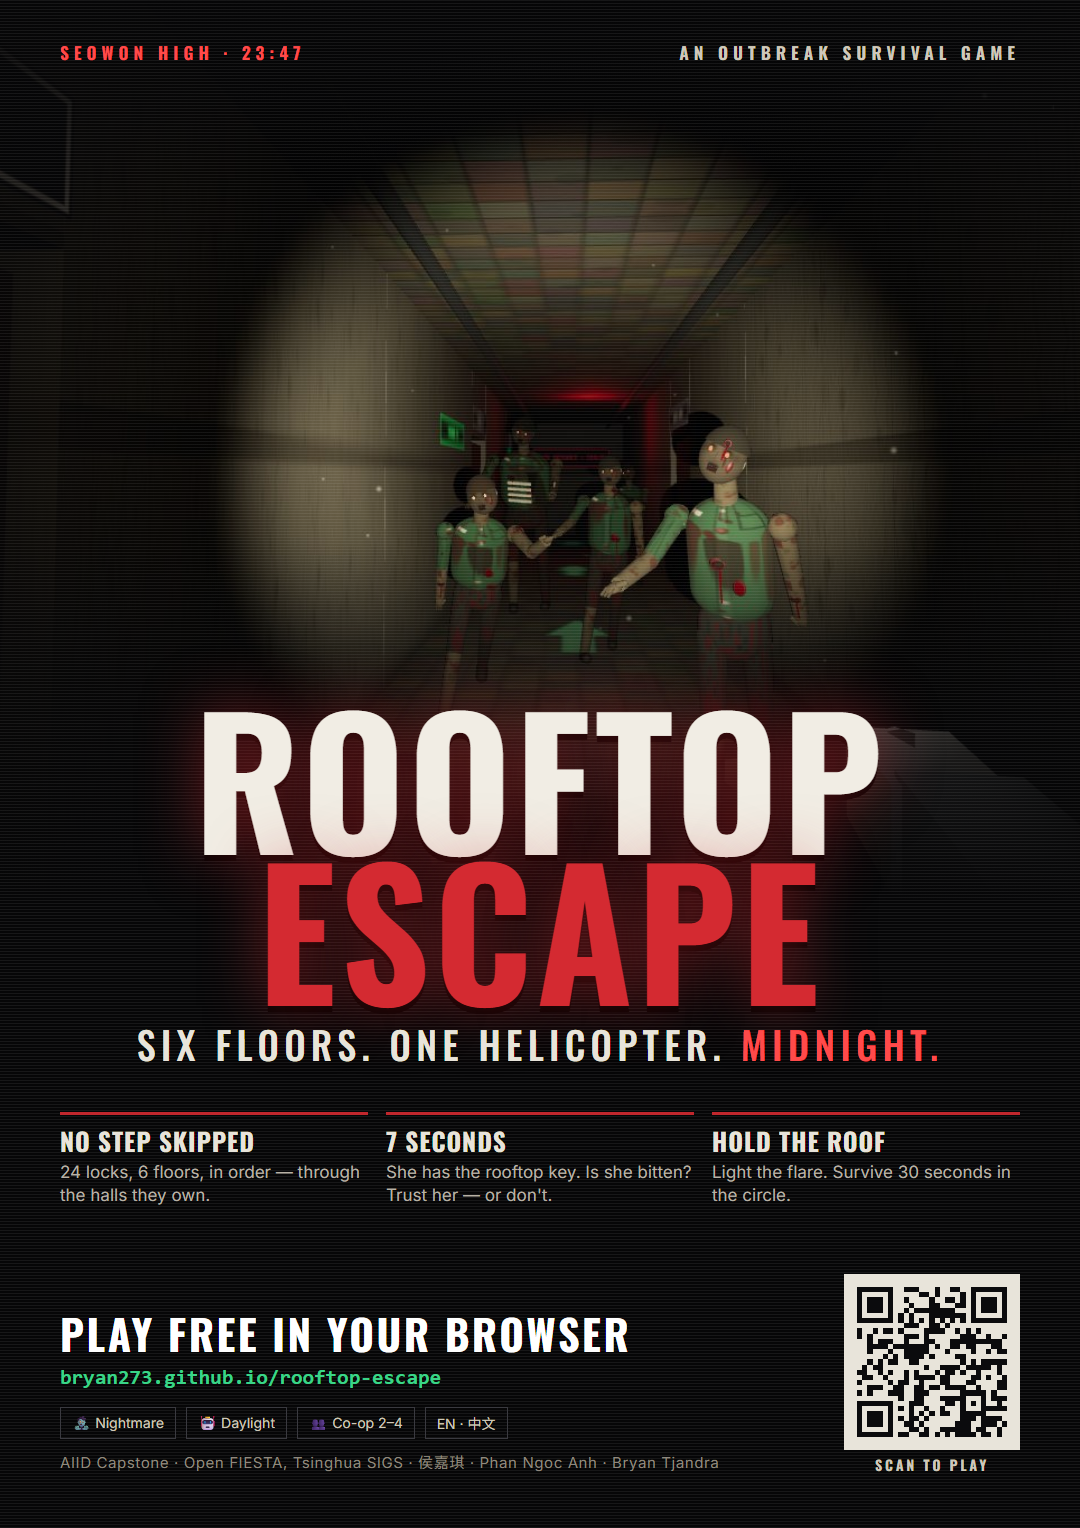
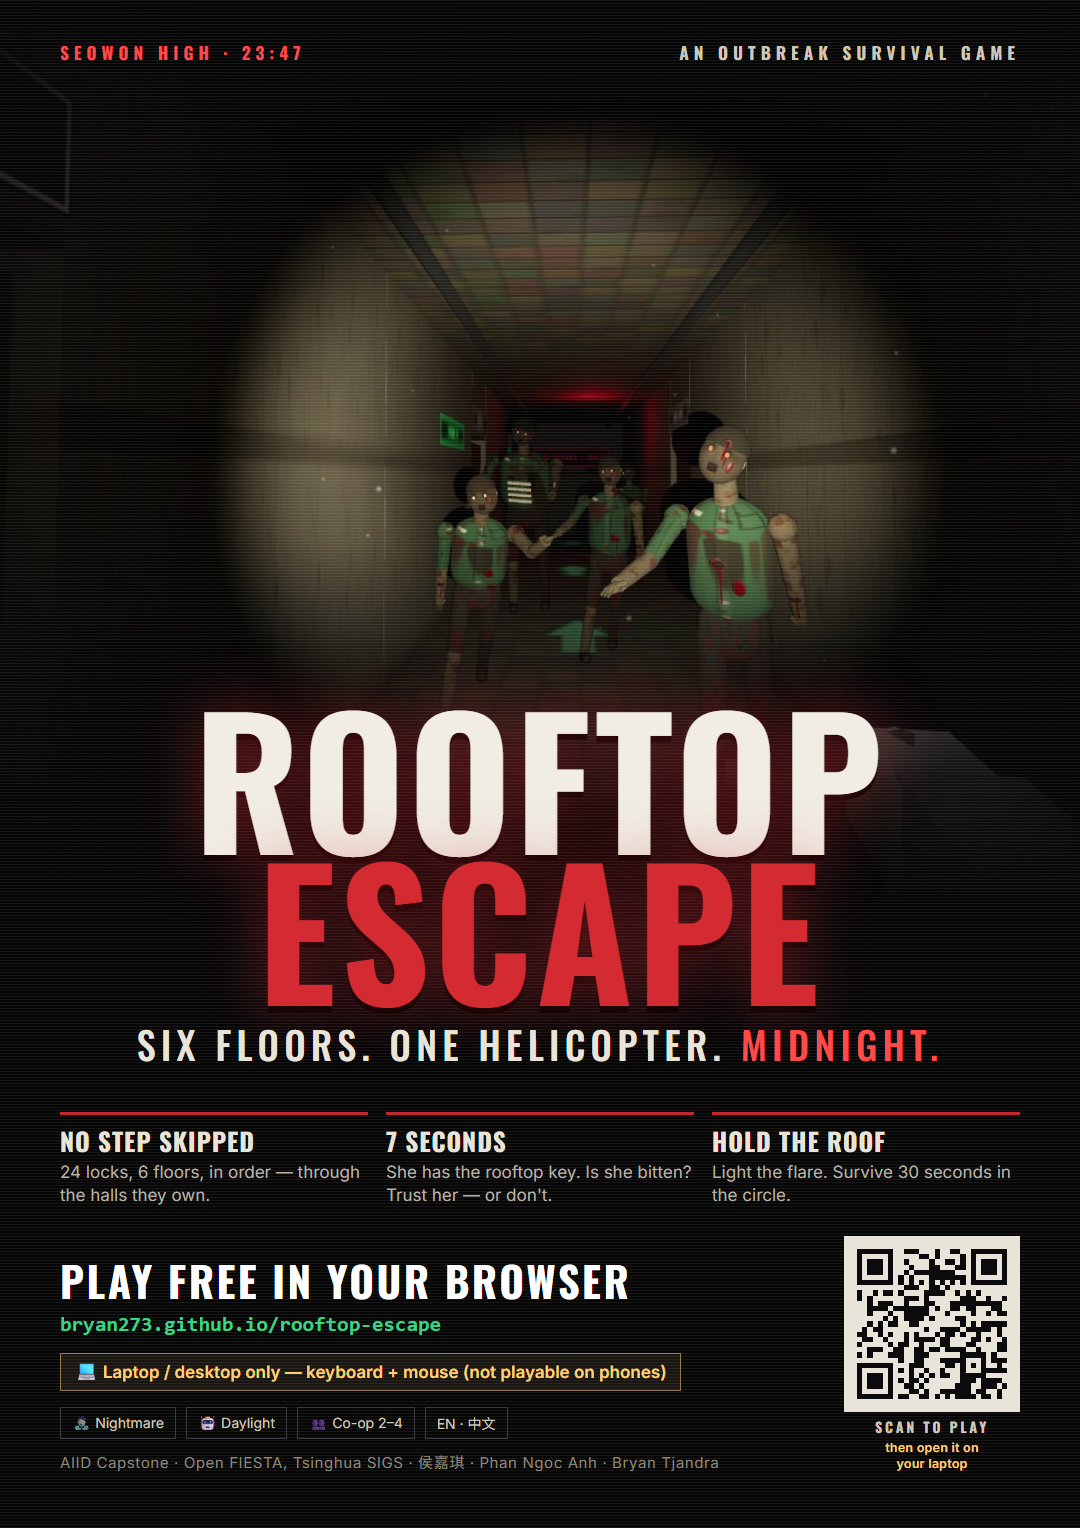
feat: add mobile notices for desktop requirements and improve UI elements

Changed region(s): [[0.0306, 0.8305, 0.6111, 0.9228], [0.7639, 0.7997, 0.9472, 0.9843]]

diff --git a/index.html b/index.html
@@ -16,6 +16,14 @@
 </head>
 <body>
 
+<!-- shown only on phones / tablets -->
+<div id="mobileNote" hidden>
+  <b>💻 This game needs a laptop or desktop</b>
+  <span>It is played with a keyboard and mouse, so it can't run on a phone. Open this link on your computer:</span>
+  <code>bryan273.github.io/rooftop-escape</code>
+  <div class="mnBtns"><button type="button" id="mnCopy">Copy link</button><button type="button" id="mnClose">Just browsing</button></div>
+</div>
+
 <header class="nav">
   <a class="brand" href="#top">ROOFTOP ESCAPE</a>
   <nav>
@@ -41,7 +49,7 @@
       <a class="btn ghost" href="#how">How to play</a>
     </div>
     <ul class="meta">
-      <li>🖱 Keyboard + mouse</li><li>⏱ 30–45 min</li><li>👥 Solo or 2–4 co-op</li><li>🌐 English · 中文</li><li>🔓 No download, no sign-up</li>
+      <li>💻 Laptop / desktop only</li><li>🖱 Keyboard + mouse</li><li>⏱ 30–45 min</li><li>👥 Solo or 2–4 co-op</li><li>🌐 English · 中文</li><li>🔓 No download, no sign-up</li>
     </ul>
   </div>
   <a class="scroll" href="#story" aria-label="Scroll down">▾</a>
@@ -114,7 +122,7 @@
         <tr><td><kbd>1</kbd> <kbd>2</kbd></td><td>Crowbar · SMG</td></tr>
         <tr><td><kbd>Space</kbd></td><td>Jump</td></tr>
       </table>
-      <p class="quiet small">Best in Chrome or Edge on a laptop/desktop. Click the game once to capture the mouse. Co-op uses peer-to-peer WebRTC — strict school networks may block it (a phone hotspot fixes that).</p>
+      <p class="quiet small"><strong>Laptop or desktop only</strong> — phones and tablets are not supported (no keyboard). Best in Chrome or Edge. Click the game once to capture the mouse. Co-op uses peer-to-peer WebRTC — strict school networks may block it (a phone hotspot fixes that).</p>
     </div>
   </div>
 </section>
@@ -154,5 +162,25 @@
   <p>Fan-made, non-commercial. Inspired by <em>All of Us Are Dead</em>. Three.js · Web Audio · PeerJS. Zombie voices CC0 (OpenGameArt), sound effects Mixkit free license.</p>
 </footer>
 
+<script>
+function isMobileDevice(){
+  const ua=navigator.userAgent||'';
+  if(/Android|iPhone|iPad|iPod|Mobile|HarmonyOS|MicroMessenger.*Mobile/i.test(ua))return true;
+  return navigator.maxTouchPoints>1&&!matchMedia('(pointer:fine)').matches; // iPadOS reports as a Mac
+}
+(function(){
+  if(!isMobileDevice())return;
+  const note=document.getElementById('mobileNote');
+  const show=()=>{note.hidden=false;note.scrollIntoView({block:'start'});};
+  note.hidden=false;document.body.classList.add('isMobile');
+  // on a phone the Play buttons explain instead of loading a game that can't be controlled
+  for(const a of document.querySelectorAll('a[href="play.html"]'))a.addEventListener('click',e=>{e.preventDefault();show();note.classList.remove('flash');void note.offsetWidth;note.classList.add('flash');});
+  document.getElementById('mnCopy').onclick=async e=>{
+    const url='https://bryan273.github.io/rooftop-escape/';
+    try{await navigator.clipboard.writeText(url);e.target.textContent='Copied ✓';}catch(_){prompt('Copy this link:',url);}
+  };
+  document.getElementById('mnClose').onclick=()=>{note.hidden=true;};
+})();
+</script>
 </body>
 </html>

diff --git a/poster.html b/poster.html
@@ -38,6 +38,8 @@ body{background:#1a1a1d;display:flex;justify-content:center;padding:24px;font-fa
 .qr{text-align:center}
 .qr img{width:176px;height:176px;border:8px solid #e8e4da;display:block}
 .qr span{display:block;margin-top:8px;font:600 14px/1 Oswald,sans-serif;letter-spacing:.2em;color:#cfc8bb}
+.qr em{display:block;margin-top:6px;font:600 12.5px/1.3 Inter,sans-serif;font-style:normal;color:#ffcf7a;letter-spacing:.02em}
+.device{display:inline-flex;align-items:center;gap:10px;margin-top:14px;padding:8px 14px;border:1px solid #ffcf7a88;background:#ffcf7a14;font:600 17px/1.2 Inter,sans-serif;color:#ffcf7a}
 </style>
 </head>
 <body>
@@ -58,10 +60,11 @@ body{background:#1a1a1d;display:flex;justify-content:center;padding:24px;font-fa
     <div class="play">
       <b>PLAY FREE IN YOUR BROWSER</b>
       <span>bryan273.github.io/rooftop-escape</span>
+      <div class="device">💻 Laptop / desktop only — keyboard + mouse (not playable on phones)</div>
       <div class="badges"><i>🧟 Nightmare</i><i>🤖 Daylight</i><i>👥 Co-op 2–4</i><i>EN · 中文</i></div>
       <small>AIID Capstone · Open FIESTA, Tsinghua SIGS · 侯嘉琪 · Phan Ngoc Anh · Bryan Tjandra</small>
     </div>
-    <div class="qr"><img src="assets/promo/qr.svg" alt="QR code to bryan273.github.io/rooftop-escape"><span>SCAN TO PLAY</span></div>
+    <div class="qr"><img src="assets/promo/qr.svg" alt="QR code to bryan273.github.io/rooftop-escape"><span>SCAN TO PLAY</span><em>then open it on<br>your laptop</em></div>
   </div>
 </div>
 </body>

diff --git a/play.html b/play.html
@@ -66,6 +66,34 @@
   <div id="lockHint">🖱 CLICK THE GAME TO CAPTURE THE MOUSE</div>
 </div>
 
+<!-- PHONE NOTICE (phones/tablets only) -->
+<div id="mobileBlock" hidden>
+  <div class="mb">
+    <div class="mbIcon">💻</div>
+    <h2>Laptop or desktop needed</h2>
+    <p>Rooftop Escape is played with a <b>keyboard and mouse</b>, so it can't be controlled on a phone or tablet.</p>
+    <p>Open this link on your computer:</p>
+    <code>bryan273.github.io/rooftop-escape</code>
+    <div class="mbBtns"><button type="button" id="mbCopy">Copy link</button><a href="index.html">See the game page</a></div>
+    <button type="button" id="mbAnyway">Try anyway</button>
+  </div>
+</div>
+<script>
+function isMobileDevice(){
+  const ua=navigator.userAgent||'';
+  if(/Android|iPhone|iPad|iPod|Mobile|HarmonyOS|MicroMessenger.*Mobile/i.test(ua))return true;
+  return navigator.maxTouchPoints>1&&!matchMedia('(pointer:fine)').matches; // iPadOS reports as a Mac
+}
+if(isMobileDevice()){
+  const b=document.getElementById('mobileBlock');b.hidden=false;
+  document.getElementById('mbAnyway').onclick=()=>{b.hidden=true;};
+  document.getElementById('mbCopy').onclick=async e=>{
+    const url='https://bryan273.github.io/rooftop-escape/';
+    try{await navigator.clipboard.writeText(url);e.target.textContent='Copied ✓';}catch(_){prompt('Copy this link:',url);}
+  };
+}
+</script>
+
 <!-- MAIN MENU -->
 <div id="menu" class="layer">
   <a id="homeLink" href="index.html">← Home</a>

diff --git a/css/style.css b/css/style.css
@@ -236,3 +236,16 @@ h1,h2{font-family:"Arial Black","Segoe UI",sans-serif;letter-spacing:4px}
 
 #homeLink{position:absolute;top:16px;left:18px;font-size:13px;letter-spacing:2px;color:#9a938a;text-decoration:none;border-bottom:1px solid #444}
 #homeLink:hover{color:#fff;border-color:#fff}
+
+/* phones: this game needs a keyboard + mouse */
+#mobileBlock{position:fixed;inset:0;z-index:200;display:flex;align-items:center;justify-content:center;padding:20px;background:radial-gradient(ellipse at center,#2a0a0c,#050506 75%);text-align:center}
+#mobileBlock[hidden]{display:none}
+#mobileBlock .mb{max-width:420px;color:#e8e4da;font-size:15px;line-height:1.6}
+#mobileBlock .mbIcon{font-size:52px}
+#mobileBlock h2{margin:8px 0 12px;font-size:24px;letter-spacing:2px;color:#ffcf7a}
+#mobileBlock p{margin-bottom:8px;color:#cfc8bb}
+#mobileBlock code{display:block;margin:6px 0 16px;font:600 15px Consolas,monospace;color:#3ad488}
+#mobileBlock .mbBtns{display:flex;gap:10px;justify-content:center;flex-wrap:wrap}
+#mobileBlock .mbBtns button,#mobileBlock .mbBtns a{font:600 14px inherit;padding:10px 16px;border:1px solid #c1272d;background:#c1272d;color:#fff;text-decoration:none;cursor:pointer}
+#mobileBlock .mbBtns a{background:transparent}
+#mbAnyway{margin-top:18px;background:none;border:none;color:#6f6a62;font-size:13px;text-decoration:underline;cursor:pointer}

diff --git a/css/landing.css b/css/landing.css
@@ -84,3 +84,16 @@ footer{padding:30px 20px 40px;text-align:center;color:#6f6a62;font-size:13px}
   .heroBg::after{background:linear-gradient(0deg,var(--bg) 8%,#08080ad9 55%,#08080a80 100%)}
 }
 @media (prefers-reduced-motion:reduce){.heroBg,.scroll{animation:none}.btn{transition:none}}
+
+/* phone notice */
+#mobileNote{position:sticky;top:0;z-index:30;display:flex;flex-direction:column;gap:6px;padding:14px 18px 16px;background:#1d1608;border-bottom:2px solid #ffcf7a;color:#f3e7c9;font-size:14.5px;line-height:1.5}
+#mobileNote[hidden]{display:none}
+#mobileNote b{font-size:16px;color:#ffcf7a}
+#mobileNote code{font:600 14px Consolas,monospace;color:#3ad488}
+#mobileNote .mnBtns{display:flex;gap:10px;margin-top:4px}
+#mobileNote button{font:600 14px Inter,sans-serif;padding:8px 14px;border:1px solid #ffcf7a;background:#ffcf7a;color:#1d1608;cursor:pointer}
+#mobileNote button+button{background:transparent;color:#f3e7c9;border-color:#6b5a33}
+#mobileNote.flash{animation:mnFlash .6s 2}
+@keyframes mnFlash{50%{background:#4a3510}}
+body.isMobile .nav{position:relative;background:#08080a}
+body.isMobile .hero{padding-top:40px;min-height:auto}
